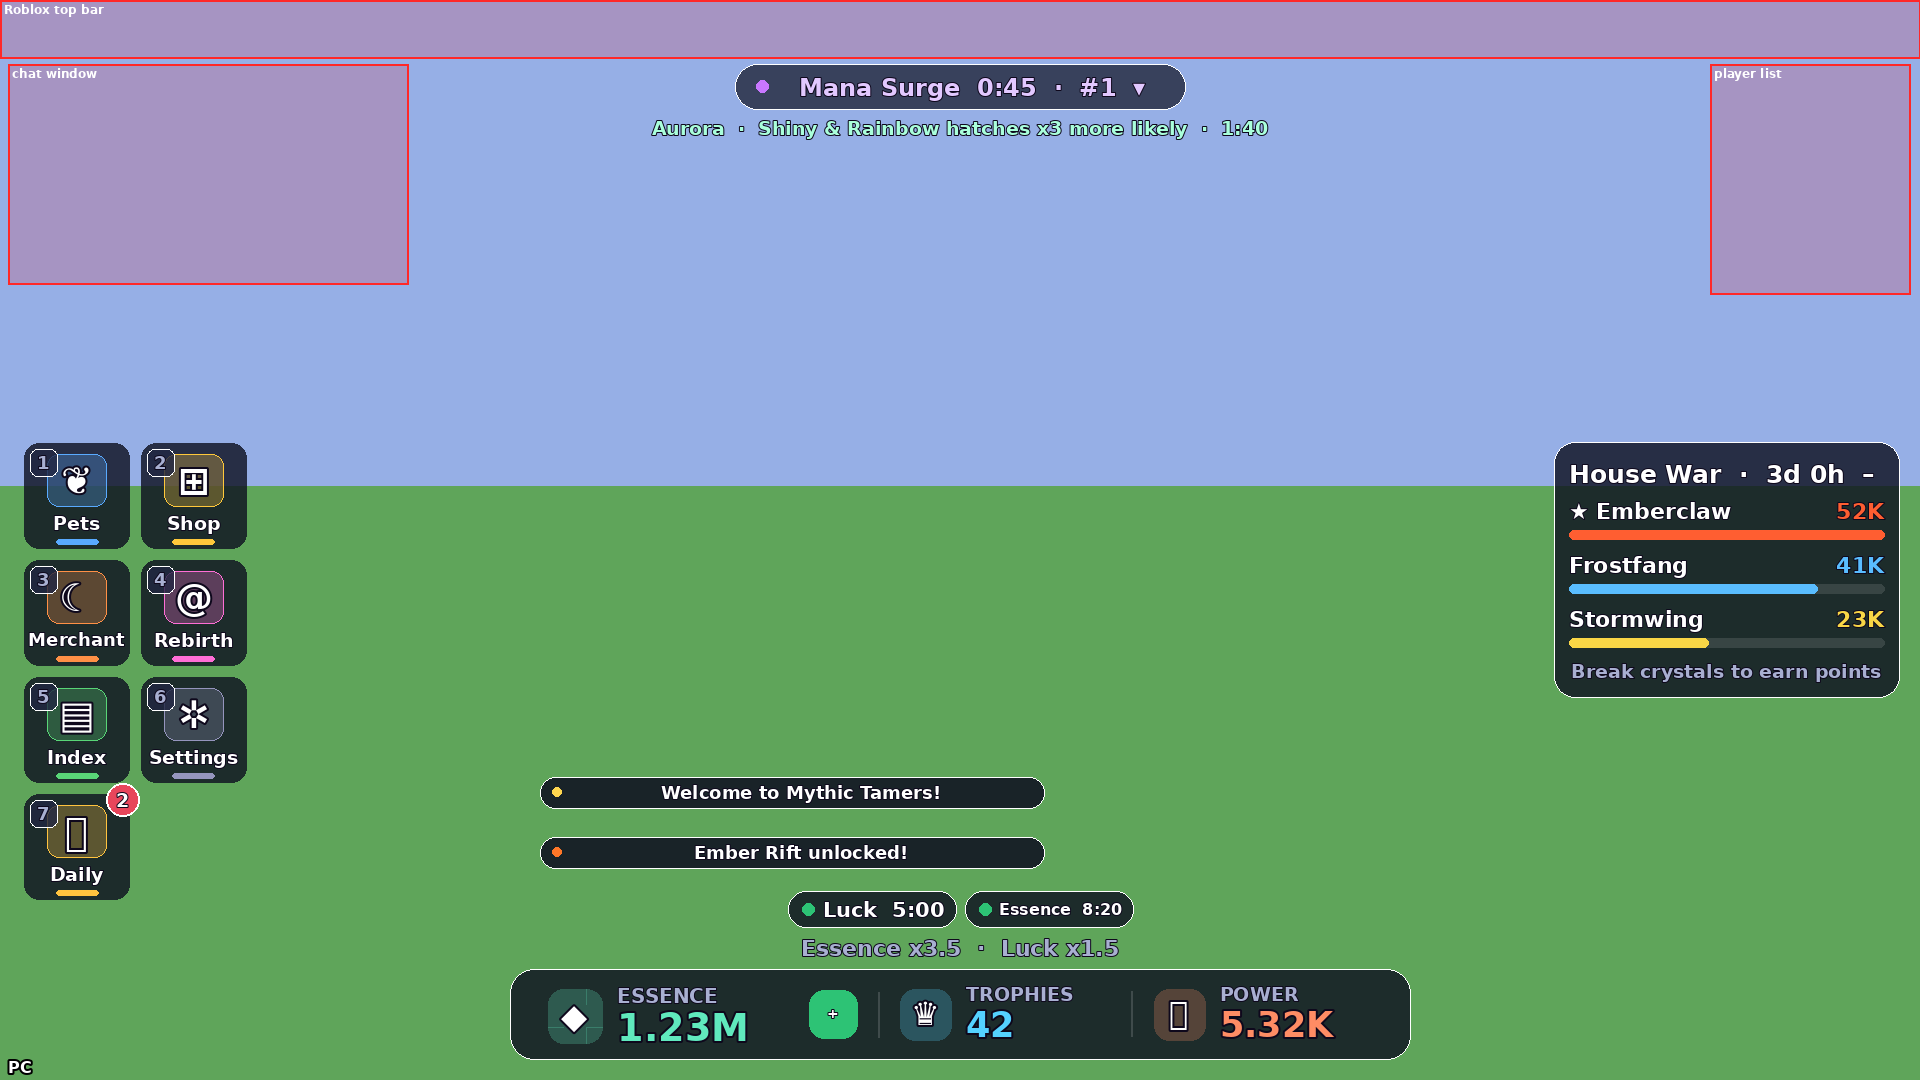
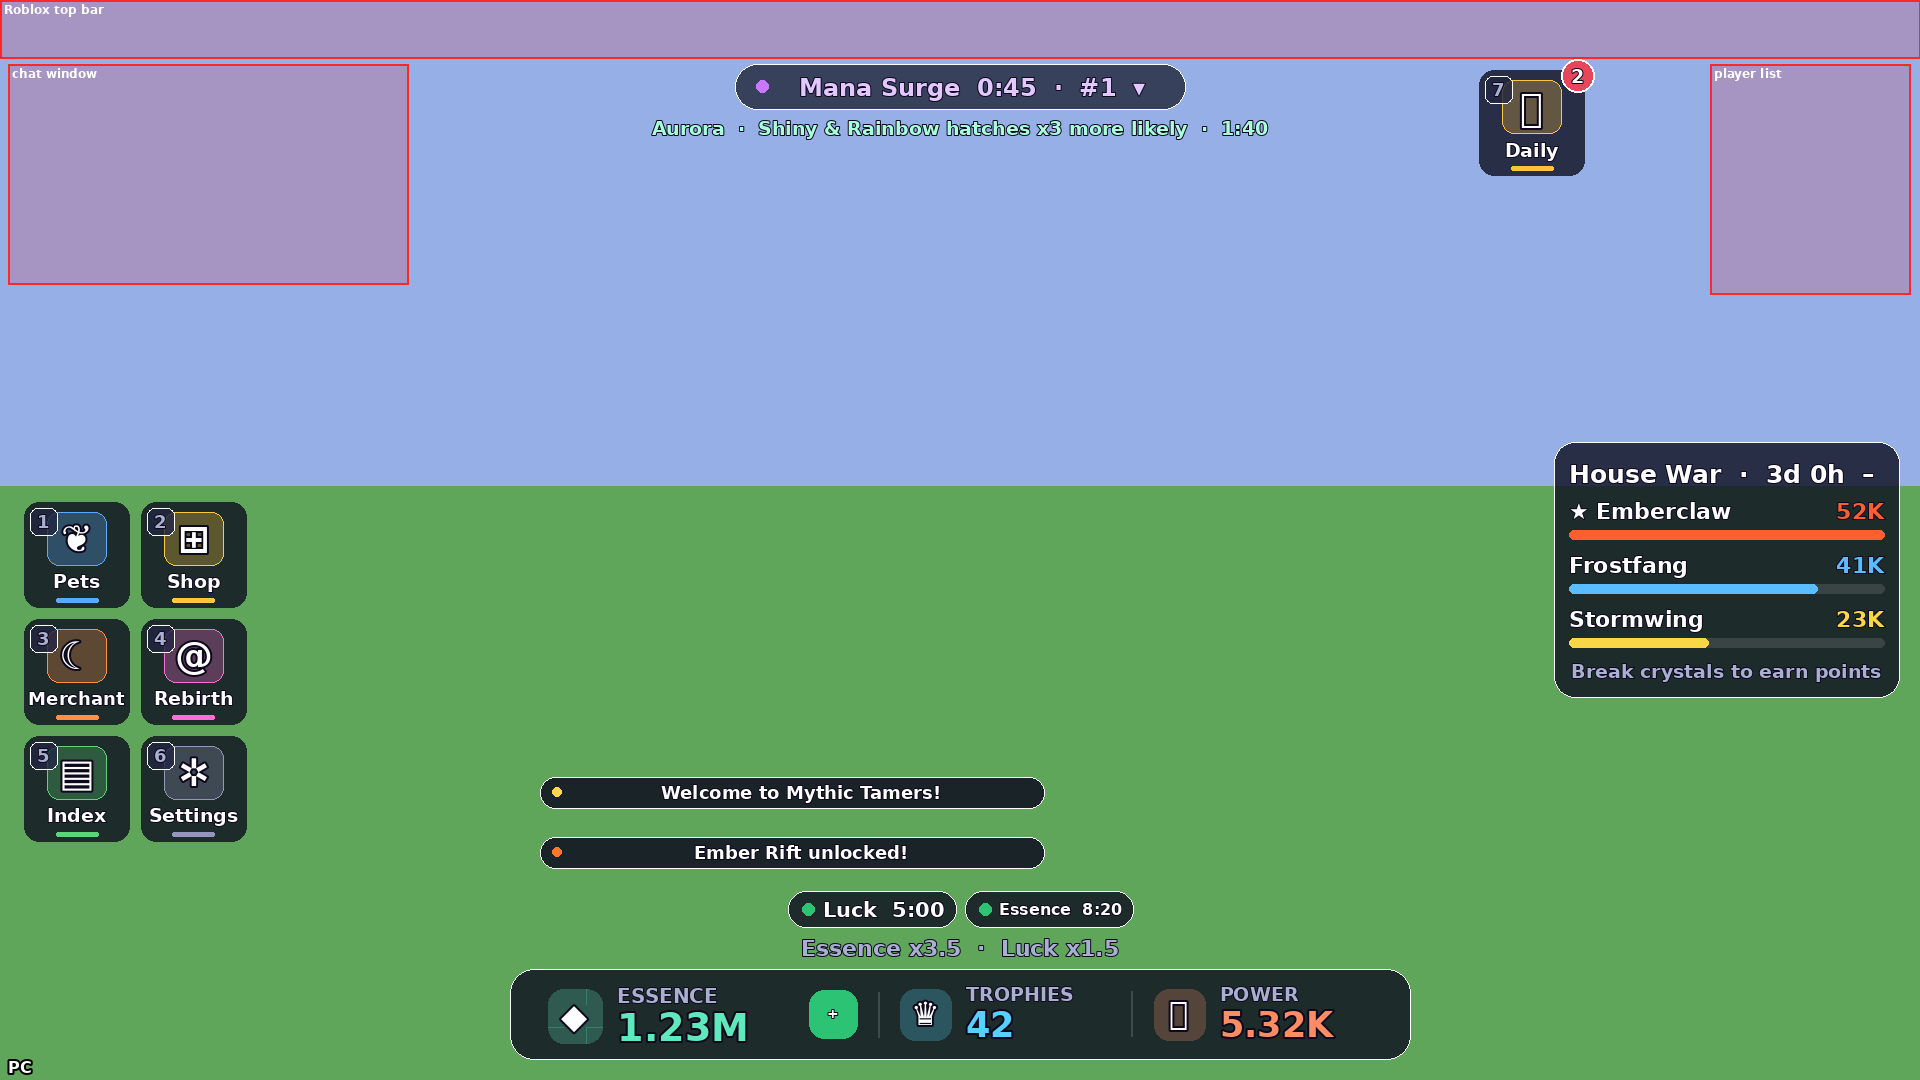
Move the Daily button to the top-right corner
It now sits on its own in the top-right (left of the player list on PC),
pulses while a reward is waiting, and the left menu is back to 6 tiles.

Claude-Session: https://claude.ai/code/session_0171CJcUrY18zHLfn1dEcNVu

Changed region(s): [[0.0, 0.3972, 0.1562, 0.8556], [0.75, 0.0611, 0.8438, 0.1833]]

diff --git a/README.md b/README.md
@@ -100,7 +100,7 @@ Testing commands (only affect you; everyone is an admin in Studio):
 
 ## Daily rewards & quests
 
-The **🎁 Daily** menu (key **7**) opens by itself when a reward is waiting; a red bubble on the
+The **🎁 Daily** button (top-right, key **7**) opens by itself when a reward is waiting; a red bubble on the
 tile counts rewards ready to claim. Days roll over at midnight UTC.
 
 - **7-day login streak:** Essence → Luck Potion → Essence → Essence Potion → 5 Trophies → Shiny
